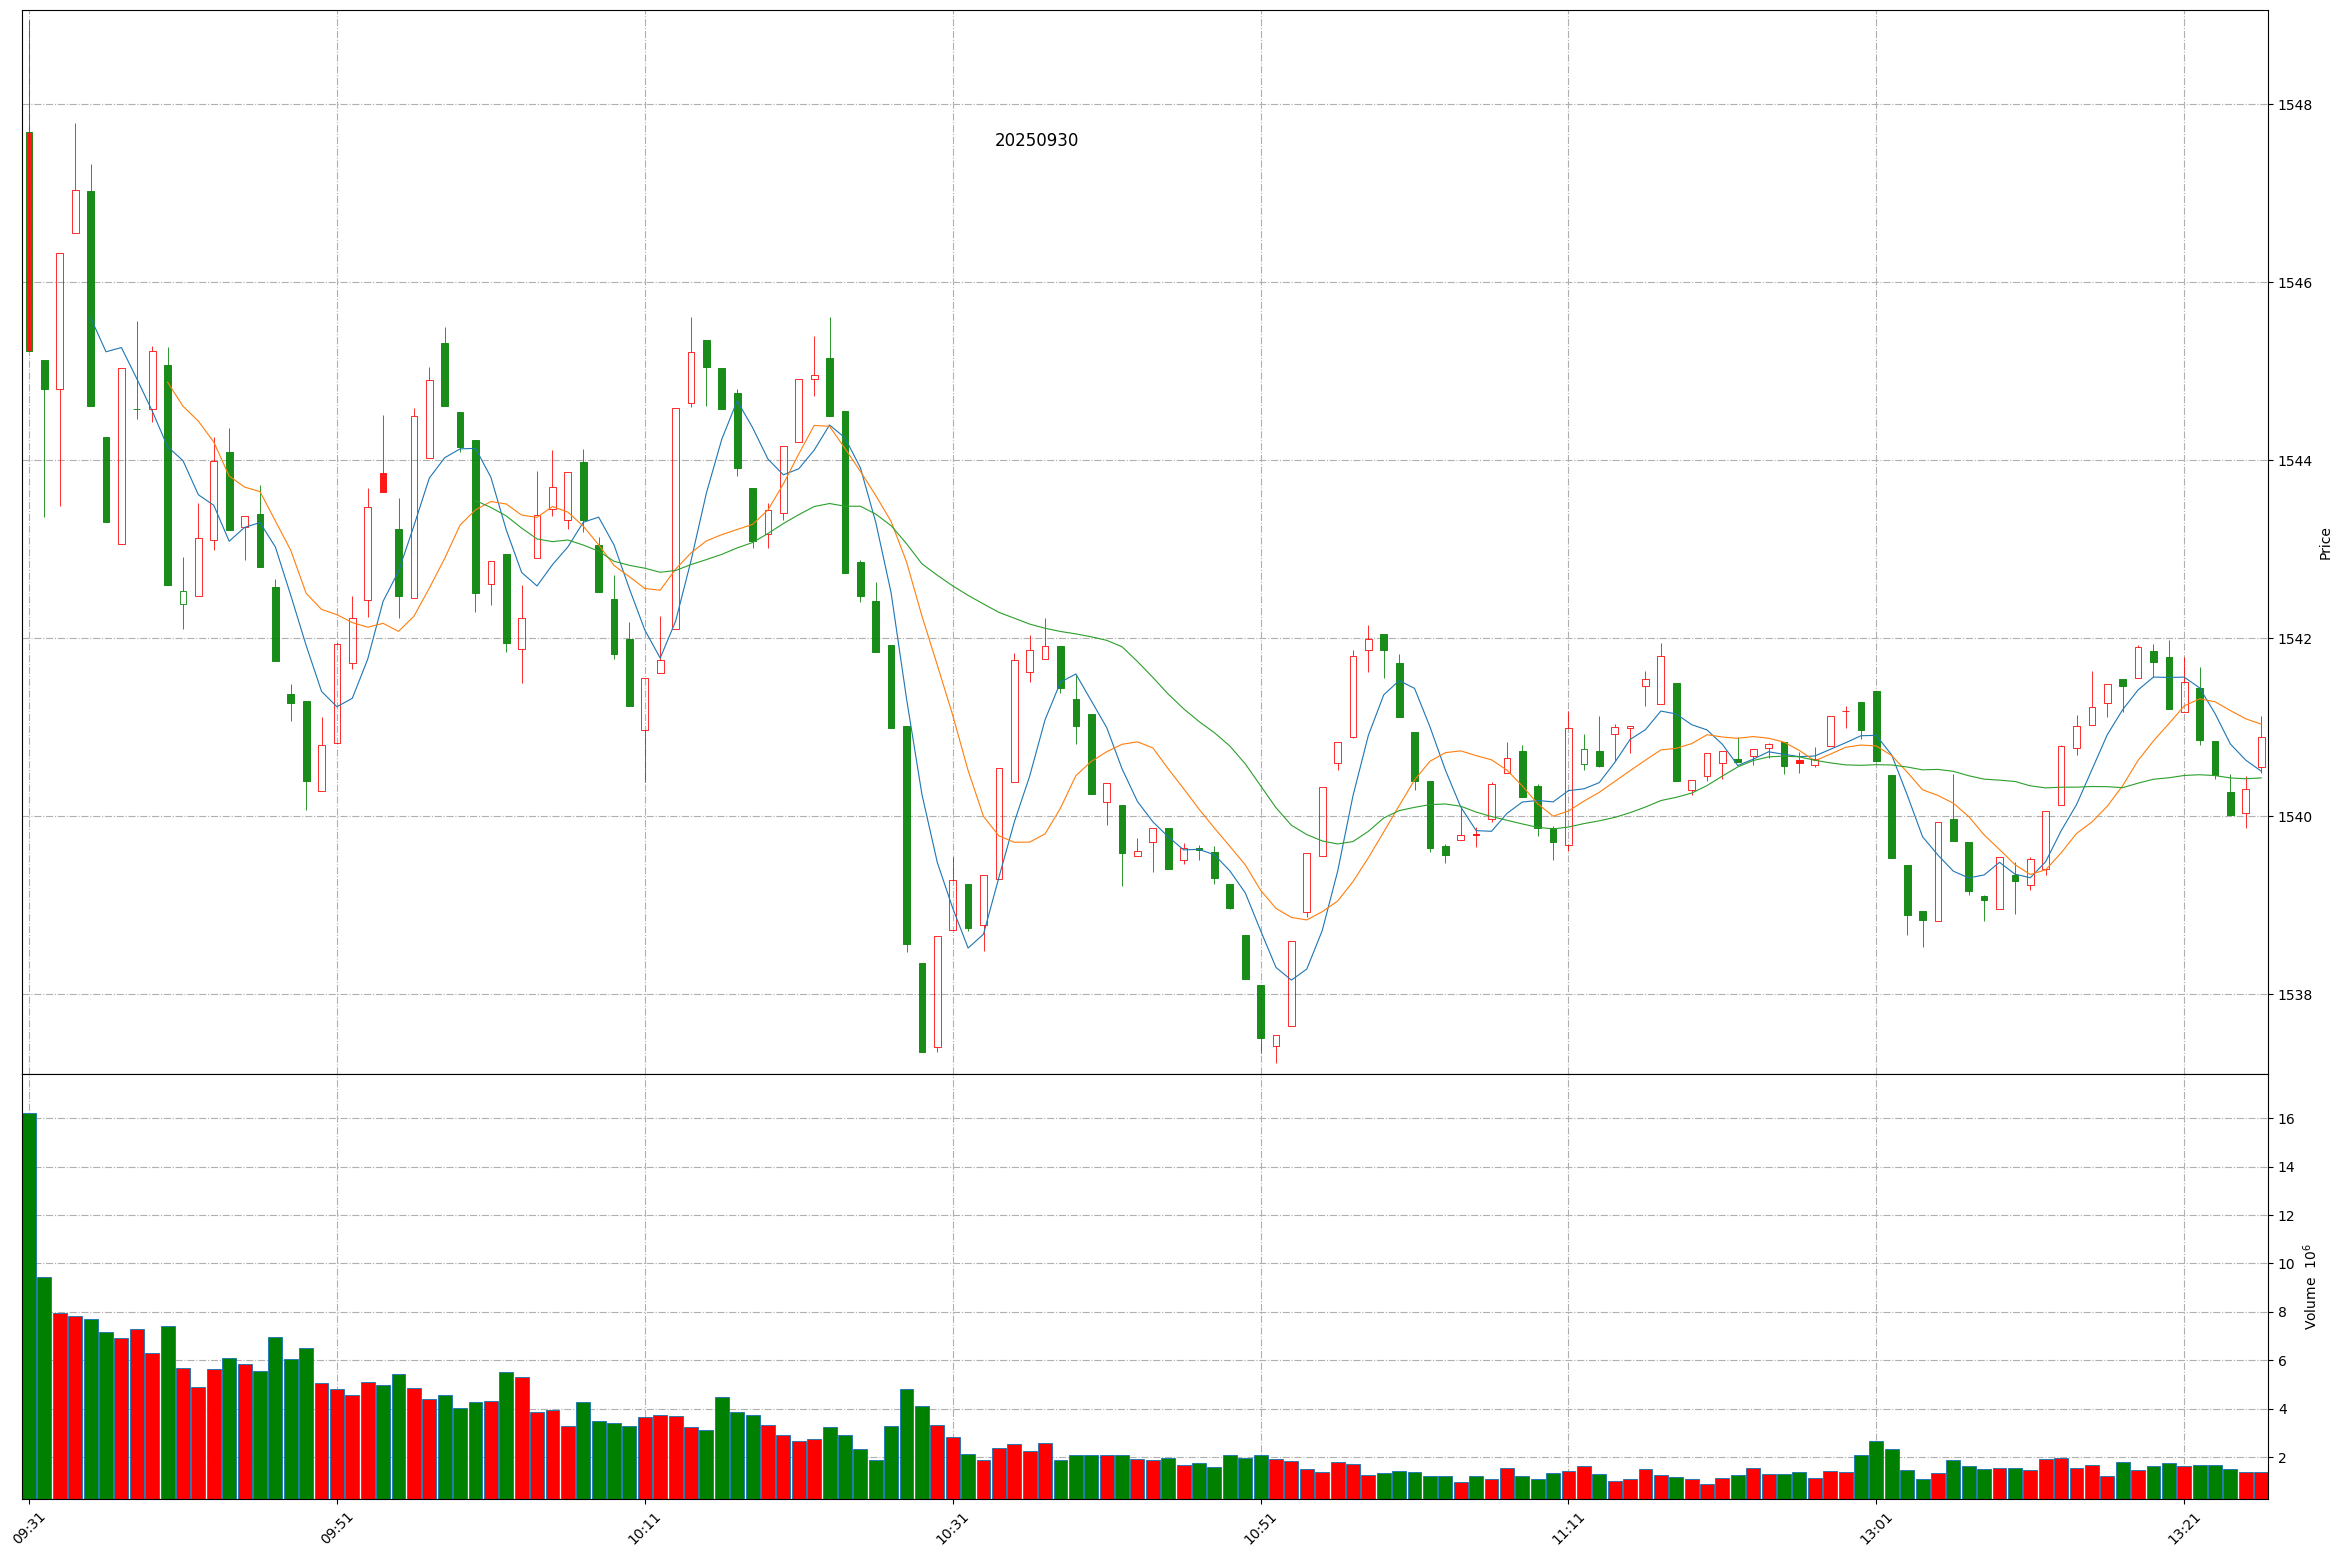
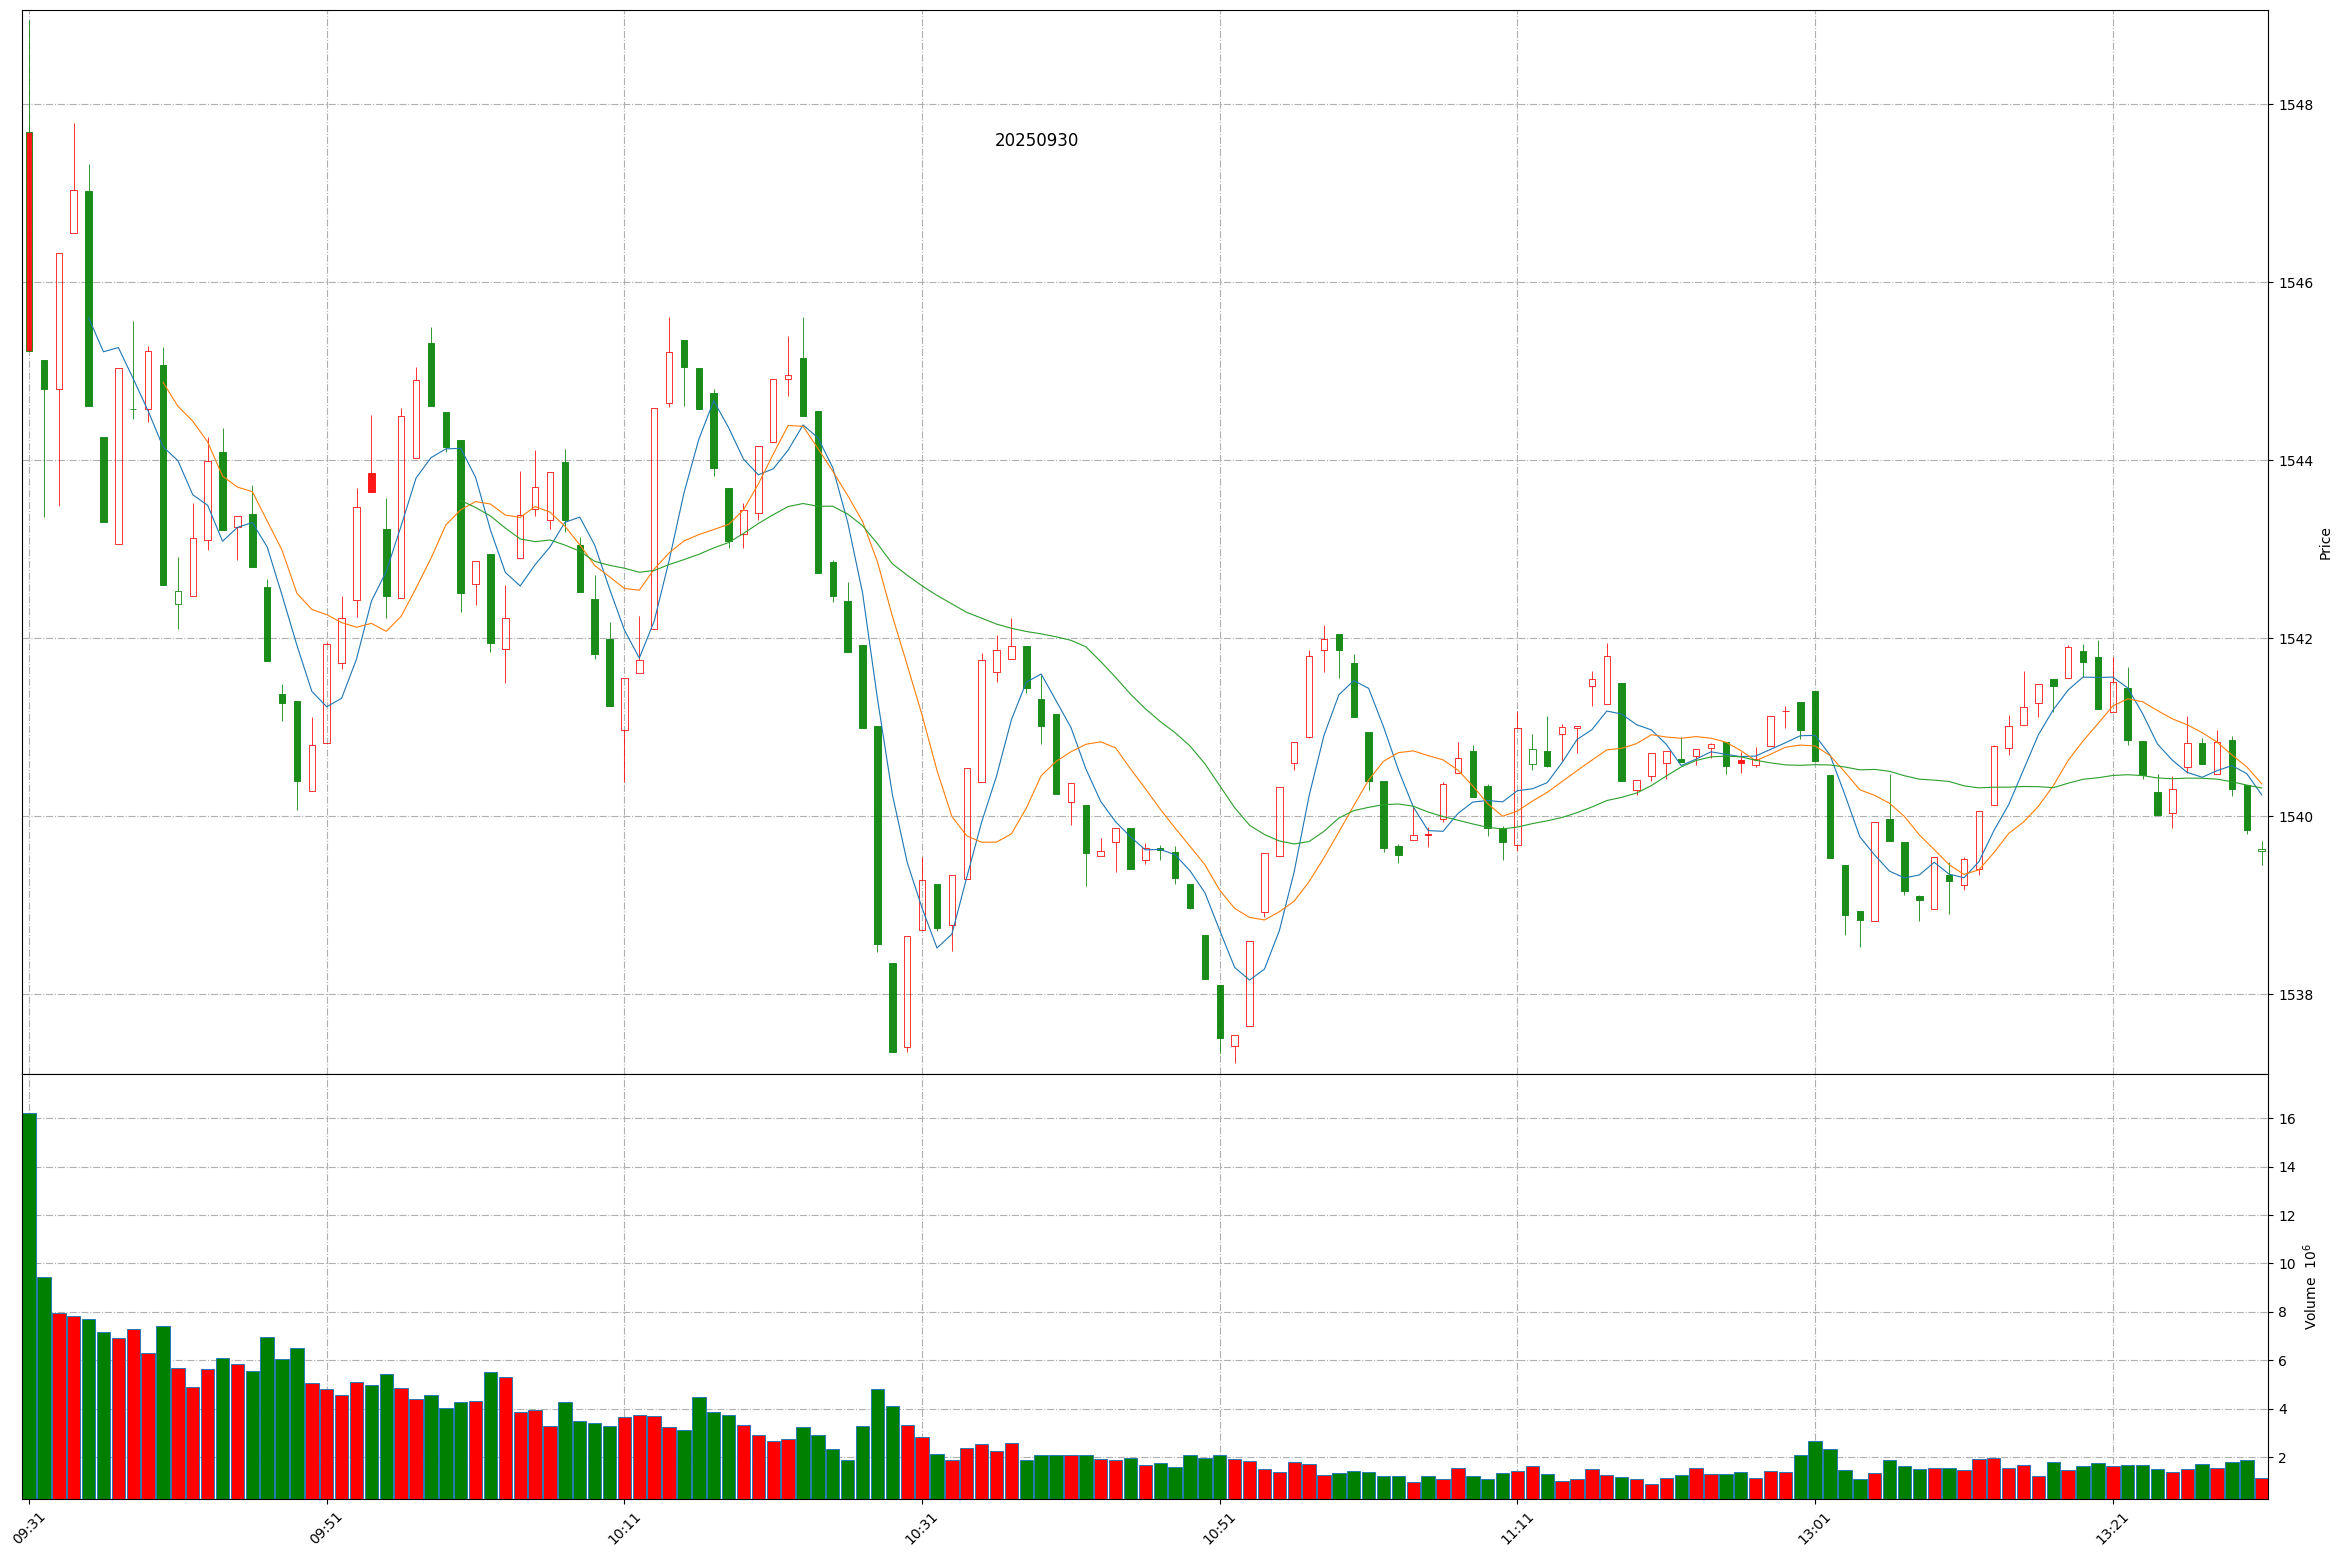
Github action update at 2025-09-30 13:30:40.

Changed region(s): [[0.0312, 0.2158, 0.9663, 0.6782], [0.0312, 0.8324, 0.9663, 0.9865]]

diff --git a/README.md b/README.md
@@ -1,11 +1,11 @@
 
 # Daily-A-share-market-quotes 每日 A 股指数（5min 更新）- 20250930
 
-### 上证指数 20250930 13:26
+### 上证指数 20250930 13:30
 ![](./fig/2025/9/20250930-sh000001.png)
 
-### 深证成指 20250930 13:26
+### 深证成指 20250930 13:30
 ![](./fig/2025/9/20250930-sz399001.png)
 
-### 北证50 20250930 13:26
+### 北证50 20250930 13:30
 ![](./fig/2025/9/20250930-bj899050.png)
